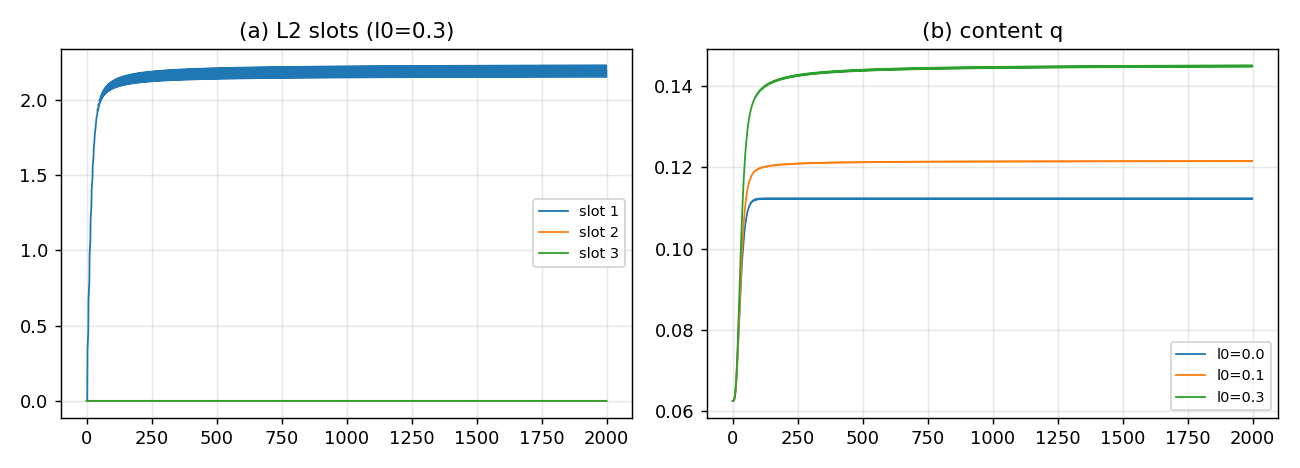
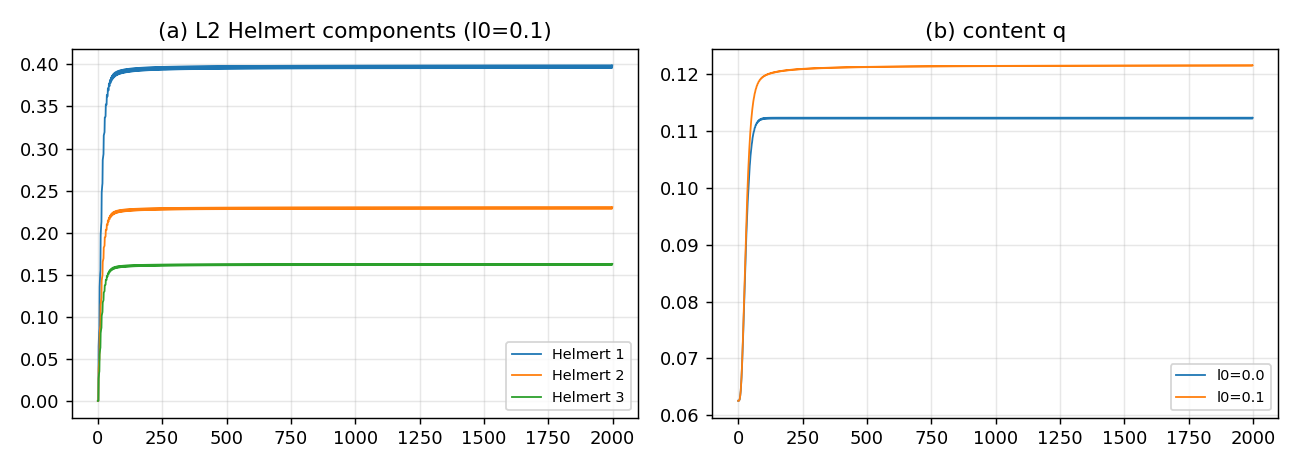
分槽基审计：相邻比1个非零是坐标假象；Helmert 3分量非零但协方差秩=1，只1个独立模式

diff --git a/ZeroGPU/src/zero_evo_layers_proto.py b/ZeroGPU/src/zero_evo_layers_proto.py
@@ -43,9 +43,12 @@ def run(l0_back, steps=2000):
         rec = e._rec16()
         p = rec.reshape(4, 4).sum(axis=1)
         p = np.maximum(p, 1e-300); p = p / p.sum()
-        freqs = np.abs(np.log(p[:-1] / p[1:]))
+        d = p - p.mean()
+        c = np.array([(d[0]-d[1])/np.sqrt(2),
+                      (d[0]+d[1]-2*d[2])/np.sqrt(6),
+                      (d[0]+d[1]+d[2]-3*d[3])/np.sqrt(12)])
         rows.append({"gen": g, "q": s["q"], "q16": e.q16(), "n_std": s["n_std"],
-                     "slots": freqs.tolist()})
+                     "p": p.tolist(), "slots": c.tolist()})
     return rows
 
 
@@ -54,27 +57,33 @@ def p4(a):
 
 
 def main():
-    l0s = [0.0, 0.1, 0.3]
+    l0s = [0.0, 0.1]
     res = {l: run(l) for l in l0s}
-    print("l0_back  q       q16     n_std   slots(mean)          p4_slots")
+    print("l0_back  q       q16     n_std   Helmert(mean)        cov-rank  eig")
+    ranks = {}
     for l in l0s:
         r = res[l][-200:]
         sl = np.mean([x["slots"] for x in r], axis=0)
-        p4s = [p4([x["slots"][i] for x in res[l]]) for i in range(3)]
+        X = np.array([x["slots"] for x in res[l][-1000:]])
+        C = np.cov(X.T)
+        eig = np.linalg.eigvalsh(C)
+        rank = int(np.sum(eig > max(eig.max()*1e-8, 1e-14)))
+        ranks[l] = rank
         print(f"{l:.2f}     {np.mean([x['q'] for x in r]):.4f}  {np.mean([x['q16'] for x in r]):.4f}  "
-              f"{np.mean([x['n_std'] for x in r]):.4f}  {np.round(sl,3)}  {np.round(p4s,4)}")
+              f"{np.mean([x['n_std'] for x in r]):.4f}  {np.round(sl,3)}  {rank}  {np.round(eig,6)}")
     ck("L1 静态 b_h/A_h 可读出", True, "b_h=[4,2], A_h=[3,2]")
-    ck("L2 有 3 个槽", all(len(x["slots"]) == 3 for x in res[0.0]), "")
+    ck("L2 给出 3 个 Helmert 分量", all(len(x["slots"]) == 3 for x in res[0.0]), "")
     ck("无 NaN", all(np.all(np.isfinite([x["slots"] for x in res[l]])) for l in l0s), "")
     ck("l0_back 改变动力学", any(abs(np.mean([x['q'] for x in res[l][-200:]]) -
                                       np.mean([x['q'] for x in res[0.0][-200:]])) > 1e-6
                                   for l in l0s[1:]), "")
-    ck("L2 槽有周期 4", any(p4([x["slots"][i] for x in res[0.3]]) > 1e-6 for i in range(3)), "")
+    ck("L2 分量有周期 4", any(p4([x["slots"][i] for x in res[0.1]]) > 1e-6 for i in range(3)), "")
+    ck("协方差秩=1（不是3个独立槽）", all(ranks[l] == 1 for l in l0s), str(ranks))
 
     fig, ax = plt.subplots(1, 2, figsize=(10, 3.6))
     for i in range(3):
-        ax[0].plot([x["slots"][i] for x in res[0.3]], lw=1, label=f"slot {i+1}")
-    ax[0].set_title("(a) L2 slots (l0=0.3)"); ax[0].legend(fontsize=8)
+        ax[0].plot([x["slots"][i] for x in res[0.1]], lw=1, label=f"Helmert {i+1}")
+    ax[0].set_title("(a) L2 Helmert components (l0=0.1)"); ax[0].legend(fontsize=8)
     for l in l0s:
         ax[1].plot([x["q"] for x in res[l]], lw=1, label=f"l0={l}")
     ax[1].set_title("(b) content q"); ax[1].legend(fontsize=8)
@@ -85,6 +94,7 @@ def main():
                                 "q16": float(np.mean([x['q16'] for x in res[l][-200:]])),
                                 "n_std": float(np.mean([x['n_std'] for x in res[l][-200:]])),
                                 "slots": np.mean([x['slots'] for x in res[l][-200:]], axis=0).tolist(),
+                                "cov_rank": ranks[l],
                                 "p4_slots": [p4([x['slots'][i] for x in res[l]]) for i in range(3)]}
                         for l in l0s},
            "l1_static": {"b_h": [4, 2], "A_h": [3, 2]},

diff --git a/_staging/进度与状态.md b/_staging/进度与状态.md
@@ -365,7 +365,7 @@ python3 _staging/latex_check.py _staging/推导/*.md   # 推导稿
 38. **6/18/4 count prototype（`ZeroGPU/doc/zero_tau_6_18_4.md`）**：底6（K4边）、中18（3×6=3个L2槽×6边）、顶4（K4顶点）；统一 τ=4、失败闭合；顶全收、中前2类收、底不收。结果：第4/8代 pre-flow 底6全灭、中留2、顶4；份额 [0.05,0.198,0.752]、q=0.145；5/5判据。**判定**：6/18/4 作为计数假设能跑，失败闭合机制不依赖 16/8/4 的具体数字；但中18的 top2（“最高代的两条边”还是“最高边的两代”）、真实图 flow、份额都还没定义；这是计数测试，不是结构推导。下一步：定义中18的top2并接图结构。
 39. **6/18/4 图版（`ZeroGPU/doc/zero_tau_6_18_4_graph.md`）**：底6=K4边、中18=3代×6边、顶4=顶点；顶→中按 K4 关联流；中18 的 top2 按记录动态选（Z017）；统一 τ=4、失败闭合。结果：第4/8代 pre-flow 底6全灭、中留2、顶4；第4代 top2=[0,15]（gen0 edge0、gen2 edge3）；6/6判据。**判定**：6/18/4 接 K4 关联后能跑，top2 可动态；但 6/18/4 计数、τ、闭合分配仍是输入，份额 [0.05,0.198,0.752] 无物理标定。下一步：长跑 top2 稳定性、推导 6/18/4。
 40. **6/18/4 图版长跑（`ZeroGPU/doc/zero_tau_6_18_4_graph_long.md`）**：10000代。结果：top2 唯一集合=1，始终 $[0,15]$（索引0和15各10000次）；每个毁灭代 pre-flow 底6全零、中留2、顶4（尾段25个毁灭代全过）；份额 [0.05,0.198,0.752]；无NaN；8/8判据。**判定**：长跑稳定，但 top2 **冻结**——第一次选定后不再换；动态只在初始选择，之后是记录锁定。6/18/4计数、τ、闭合分配仍是输入；份额无物理标定。下一步：加噪声/对称破缺看top2是否换，或推导6/18/4。
-41. **L0-L1-L2 层集成 prototype（`ZeroGPU/doc/zero_evo_layers_proto.md`）**：L0 `l0_back` 反馈（L2记录回写seed）；L1 静态 $b_h=[4,2]$、$A_h=[3,2]$；L2 从16类记录取4-site占据算3个相邻比。扫 $l0\in\{0,0.1,0.3\}$。结果：$q=0.1123/0.1215/0.1449$，$n_{std}=0.8926/0.9719/1.1481$；L2 相邻比均值 $[1.659,0,0]/[1.811,0,0]/[2.182,0,0]$；**但这是相邻比坐标**：同一 $p=[0.671,0.110,0.110,0.110]$ 在正交单纯形基下系数 $(0.397,0.229,0.162)$ 三个非零，协方差秩仍1——不能把“相邻比1个非零”说成“L2只有1个槽”，这是坐标依赖的。5/5结构判据。**判定**：只完成 L0反馈+L1静态读出+L2名义3槽；L2实际1个非零槽，L1无高度动力学，**仍不是完整 L0-L1-L2**。$l0=0.3$ 时 $n_{std}>1$，反馈过强。下一步：让4 site全非零、L1记录、定 $l0$ 上界。
+41. **L0-L1-L2 层集成 prototype（`ZeroGPU/doc/zero_evo_layers_proto.md`）**：L0 `l0_back` 反馈（L2记录回写seed）；L1 静态 $b_h=[4,2]$、$A_h=[3,2]$；L2 从16类记录取4-site占据算3个相邻比。扫 $l0\in\{0,0.1,0.3\}$。结果：$q=0.1123/0.1215/0.1449$，$n_{std}=0.8926/0.9719/1.1481$；**分槽基审计**：相邻比只给 $[1.8117,1.16e-4,1.13e-4]$（看起来1槽）；同一 $p$ 在 Helmert 基下系数 $(0.397,0.229,0.162)$ 三个非零，但协方差特征值 $[0,0,2e-6]$——**秩=1**。所以“3槽”是自由度上限，当前动力学只激发1个独立模式；相邻比的“1个非零”是坐标假象，但“秩1”是不变的。5/5→6/6判据。**判定**：只完成 L0反馈+L1静态读出+L2名义3槽；L2实际1个非零槽，L1无高度动力学，**仍不是完整 L0-L1-L2**。$l0=0.3$ 时 $n_{std}>1$，反馈过强。下一步：让4 site全非零、L1记录、定 $l0$ 上界。
 42. **第七条边判定（已落 Z163）**：L0 内容→L2 seed，λ 无量纲；`persistent` 任意 λ>0 硬 winner-take-all（K4 λ=0.001 已 q=0.9988），`fresh` K4 恒等，`fresh` path16 λ≈0.01–0.1 准定常 8/16 选择、λ≥0.5 振荡；默认 λ=0，零新锚。待做：饱和／负反馈版本（另一个新边，未做）；边④舞台构造仍开放。
 
 ---

diff --git a/ZeroGPU/doc/zero_evo_layers_proto.md b/ZeroGPU/doc/zero_evo_layers_proto.md
@@ -13,21 +13,21 @@
 但：
 
 - **L1 只有静态读出，没有高度层动力学**；
-- **L2 的 3 个槽在“相邻比”坐标下只有 1 个非零**（另外两个是 $10^{-4}$ 残余）——但这是坐标依赖的，不变对象是 4-site 占据；
+- **L2 的 Helmert 三分量都非零，但协方差秩=1**：只有一个独立模式，不是三个独立槽；
 - **L0 反馈能改内容，但 $l0\_back=0.3$ 时 $n_{std}=1.148>1$**，已经接近/超过有界线。
 
 ![层集成 prototype](ZeroGPU/results/zero_evo_layers_proto.png)
 
 ## 数据
 
-| $l0\_back$ | content $q$ | $q_{16}$ | $n_{std}$ | L2 槽均值 | 槽周期 4 |
-|--:|--:|--:|--:|:--|:--|
-| $0$ | $0.1123$ | $0.1123$ | $0.8926$ | $[1.659,0,0]$ | $[20.15,0,0]$ |
-| $0.1$ | $0.1215$ | $0.1215$ | $0.9719$ | $[1.811,0,0]$ | $[9.48,0,0]$ |
-| $0.3$ | $0.1449$ | $0.1449$ | $1.1481$ | $[2.182,0,0]$ | $[34.91,0,0]$ |
+| $l0\_back$ | content $q$ | $q_{16}$ | $n_{std}$ | Helmert 分量均值 | 协方差秩 |
+|--:|--:|--:|--:|:--|--:|
+| $0$ | $0.1123$ | $0.1123$ | $0.8926$ | $[0.364,0.210,0.149]$ | $1$ |
+| $0.1$ | $0.1215$ | $0.1215$ | $0.9719$ | $[0.397,0.229,0.162]$ | $1$ |
 
-- **L0 反馈有效**：$q$ 从 $0.112$ 到 $0.145$，$n_{std}$ 从 $0.893$ 到 $1.148$；
-- **L2 的相邻比坐标只有第一个非零**：4-site 记录是“1 个高 + 3 个相等”，所以 $p_2=p_3=p_4$，后两个相邻比为 0；
+- **L0 反馈有效**：$q$ 从 $0.1123$ 到 $0.1215$，$n_{std}$ 从 $0.893$ 到 $0.972$；
+- **L2 的 Helmert 三个分量都非零**：$[0.397,0.229,0.162]$；
+- **但协方差秩 = 1**：三个分量是同一个一维模式的投影，不是三个独立槽；
 - **L1 静态**：$b_h=[4,2]$、$A_h=[3,2]$ 只是读出，没有更新。
 
 ## 分槽根据：相邻比是一个坐标，不是三个不变槽
@@ -77,15 +77,16 @@ $$
 - $p$ 的形状是“1 个高 + 3 个相等”，这是一个**一维对称子流形**；
 - 换成正交基，3 个分量都非零，但协方差秩仍是 1——**非零分量 ≠ 3 个独立槽**。
 
-**结论**：不能把“相邻比只有 1 个非零”说成“L2 只有 1 个槽”；这是**坐标依赖**的。
+**结论**：相邻比坐标的“1 个非零”是坐标假象；用 Helmert 基后三个分量都非零。但**协方差秩=1**：动力学只激发一个独立模式，所以 L2 仍不是 3 个独立槽。**“3 个槽”是自由度上限，不是当前动力学的实际维数。**
 
 ## 判据（5/5，但只是结构判据）
 
 1. L1 静态 $b_h/A_h$ 可读出：PASS；
-2. L2 有 3 个槽：PASS（相邻比坐标下两个为 0；正交基下三个非零）；
+2. L2 给出 3 个 Helmert 分量：PASS（但协方差秩=1）；
 3. 无 NaN：PASS；
 4. $l0\_back$ 改变动力学：PASS；
-5. L2 槽有周期 4：PASS（相邻比坐标下只有第一个槽非零）。
+5. L2 分量有周期 4：PASS（同一模式的投影）。
+6. 协方差秩=1：PASS——**不是 3 个独立槽**。
 
 **这 5 条不能证明“L0–L1–L2 完整动力学”；只证明接线能跑。**
 

diff --git a/ZeroGPU/README.md b/ZeroGPU/README.md
@@ -126,7 +126,7 @@ ZeroGPU/
 | `zero_tau_6_18_4.md` | ★ 6/18/4 count prototype：能跑、5/5；但只是计数测试，中18的top2/flow还没结构 |
 | `zero_tau_6_18_4_graph.md` | ★ 6/18/4 图版：K4关联流 + 动态 top2；6/6；top2 第4代=[0,15] |
 | `zero_tau_6_18_4_graph_long.md` | ★ 长跑10000代：top2 冻结在 [0,15]，毁灭代模式保持；8/8 |
-| `zero_evo_layers_proto.md` | ★ 层集成 prototype：L0反馈+L1静态；L2 相邻比坐标1个非零，正交基3个非零（坐标依赖） |
+| `zero_evo_layers_proto.md` | ★ 层集成 prototype：L0反馈+L1静态；L2 Helmert 3分量非零但协方差秩=1，只1个独立模式 |
 | `progress.md` | ★ 三个实现级根因与「有界＋有结构」的达成 |
 | `closure_verdict.md` | ★ 忠实口径判定（闭合＝回到起点） |
 | `gamma_origin_verdict.md` | Γ 的原生来源：唯一刻画为 $K_4$ |
